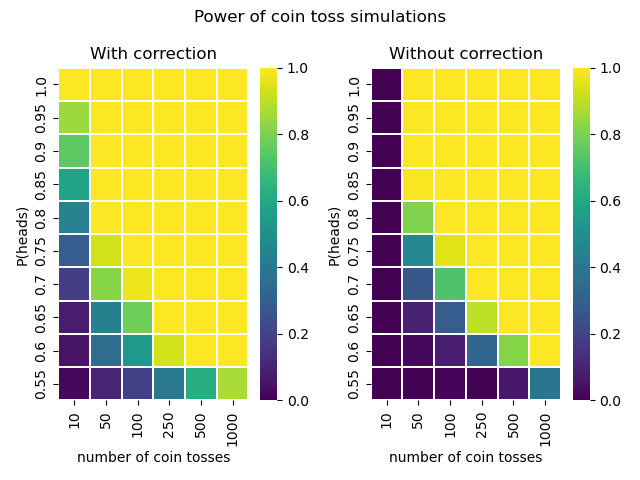
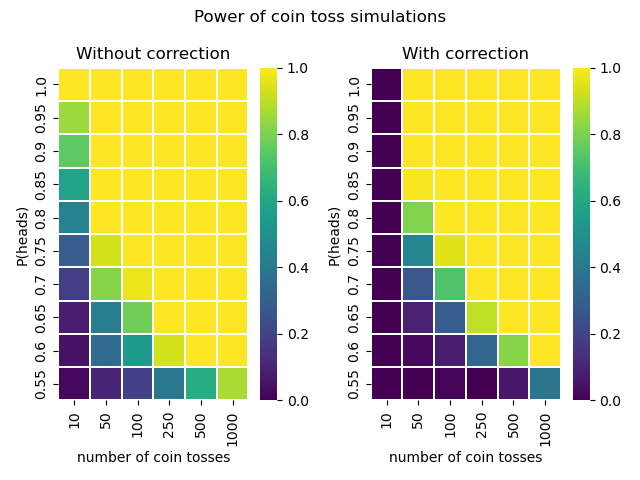
Updated part C, corrected titles

Changed region(s): [[0.5938, 0.0938, 0.8438, 0.125], [0.125, 0.0938, 0.375, 0.125]]

diff --git a/day4-homework/binomial_power_interactive_lecture.py b/day4-homework/binomial_power_interactive_lecture.py
@@ -110,8 +110,8 @@ def run_experiment(tosses, probs, n_iters = 100, seed = 389, correct_the_pvalues
         ax[i].set_ylabel('P(heads)')
         ax[i].set_xlabel('number of coin tosses')
 
-    ax[0].set_title('With correction')
-    ax[1].set_title('Without correction')
+    ax[0].set_title('Without correction')
+    ax[1].set_title('With correction')
 
     fig.suptitle('Power of coin toss simulations')
     plt.tight_layout()

diff --git a/day4-homework/README.md b/day4-homework/README.md
@@ -5,6 +5,9 @@ The `probs` line:
 - Take a list of numbers going from 0.55 to 1.00 (inclusive) incrementing by 0.05. Then round tall numbers in this array to two decimal places.. (I'm not sure why the around is needed because doesn't arange already return in 0.05 increments?). Then, the list slicing reverses the array.
 Note, the `prob_heads` and `n_toss` args are now obsolete so got rid of them.
 
+## C
+Power increases as you increase the number of coin tosses or as you increase the probability of heads. However, the number of tosses has a stronger effect on the power.
+
 ## D
 The biological phenomenon of interest is transmission distortion, where some alleles are disproportionately passed down to the next generation (rather than an equal proportion). In the study they were analyzing this phenomenon on a new sperm dataset.
 
